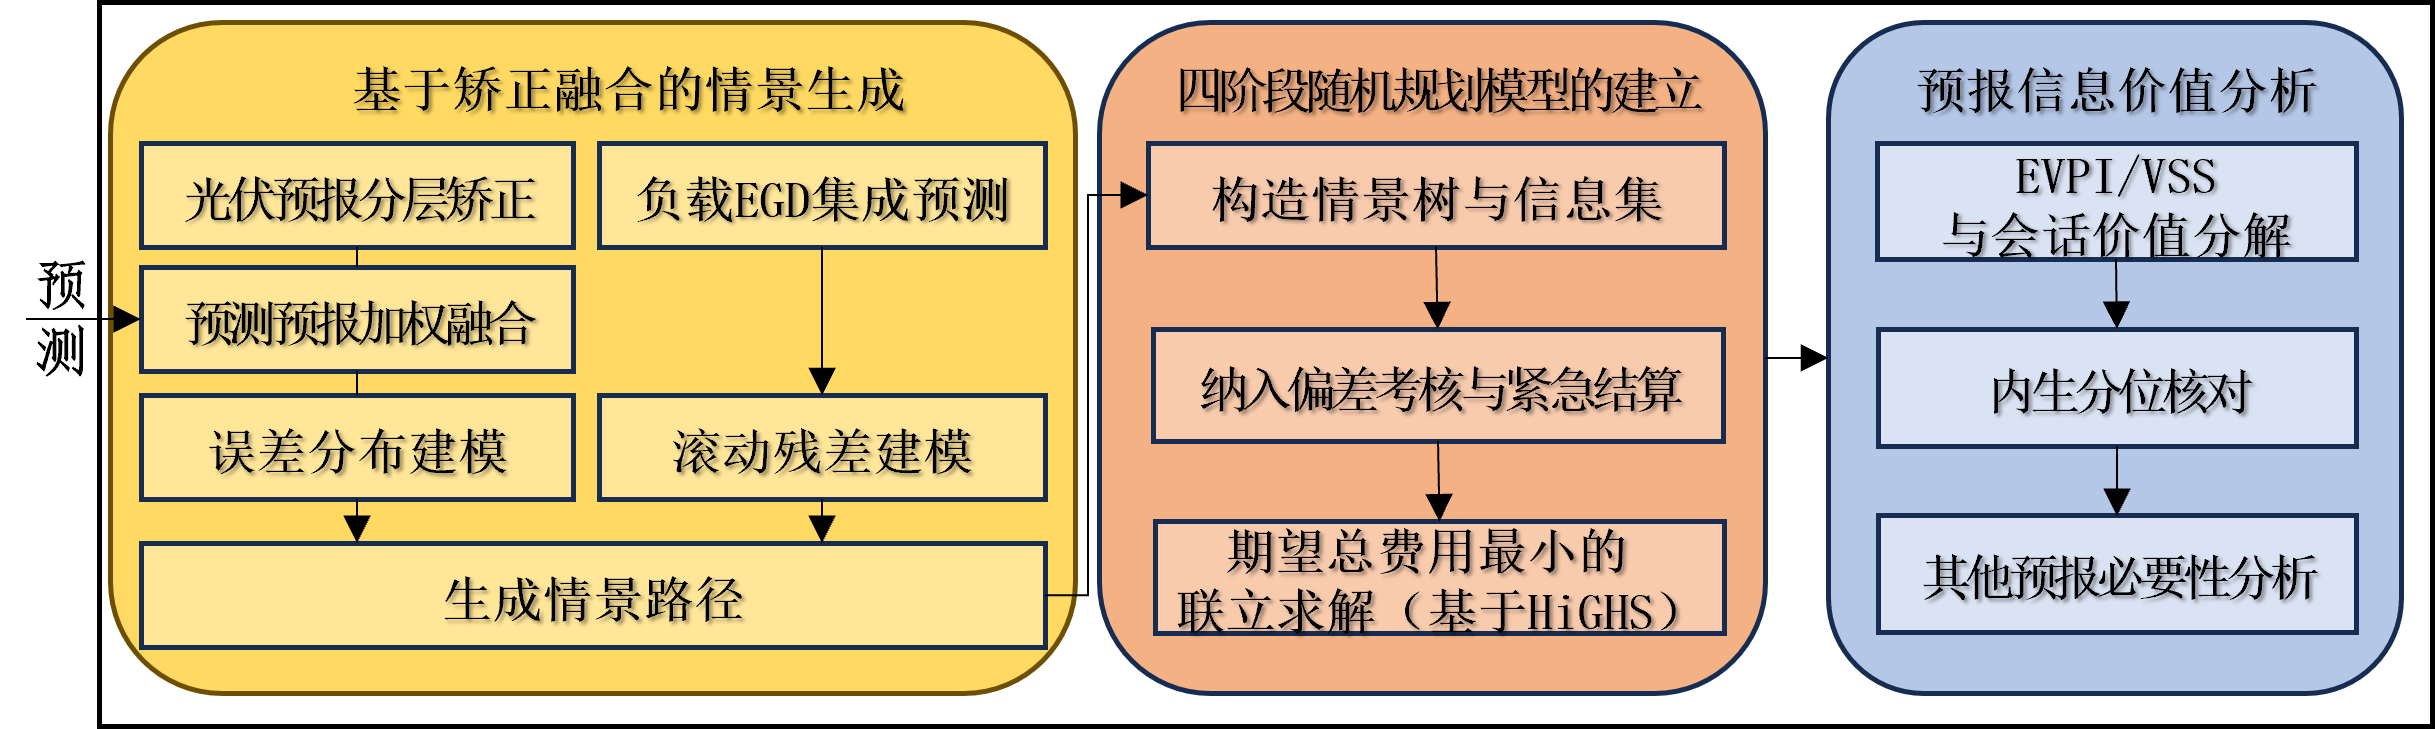
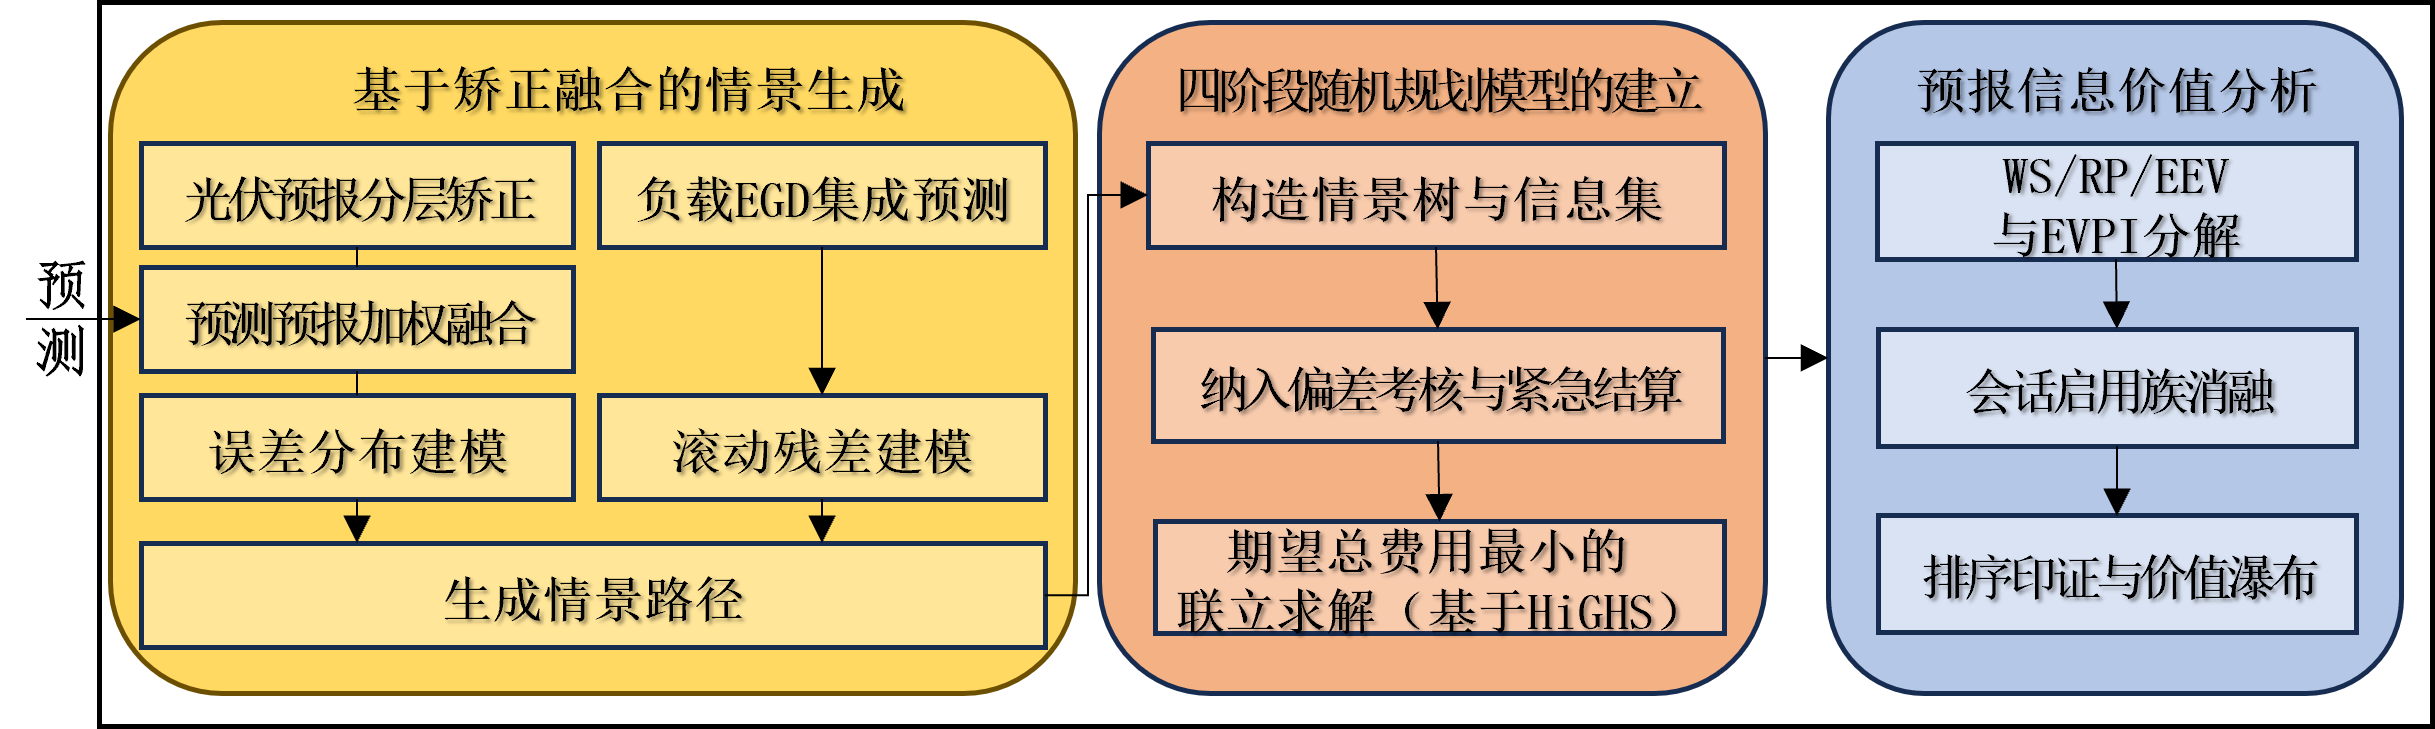
paper p3 信息价值分析与表格说明修改-0913

Changed region(s): [[0.7803, 0.2112, 0.9676, 0.3621], [0.7803, 0.7545, 0.9676, 0.845], [0.8115, 0.4829, 0.9363, 0.5734]]

diff --git a/C题/outcome/Cpaper.tex b/C题/outcome/Cpaper.tex
@@ -923,7 +923,9 @@ LSTM 组 & 1633.96 & 2829.85 & 3,661,104 \\
 是成交偏离计划要付的价；紧急费从 413.39 万元压到 185.22 万元，省下 228.17 万元。
 可以看出，模型宁可让计划阶段多花一点，也尽量避免最贵的紧急购电。
 
-题面另要求按表~1、表~2、表~3 的格式列出四个指定日期的结果。计划列是 0:00 的申报量，成交列是最终的结算量，储能为实测执行的充放电量，紧急购电为实测缺口按连续时段合并。三张表依次见表~\ref{tab:p3day1} 至表~\ref{tab:p3day3}。
+题面另要求按表~1、表~2、表~3 的格式列出四个指定日期的结果。
+计划列是 0:00 的申报量，成交列是最终的结算量，储能为实测执行的充放电量，紧急购电为实测缺口按连续时段合并。
+三张表依次见表~\ref{tab:p3day1} 至表~\ref{tab:p3day3}。注，在本结果求解时取 2025.2.1–12.31 的 334 天作为时间窗口。
 
 \begin{table}[htbp]
 \centering
@@ -1002,32 +1004,88 @@ LSTM 组 & 1633.96 & 2829.85 & 3,661,104 \\
 \label{tab:p3day3}
 \end{table}
 
-\subsection{信息价值与风险画像}
+\subsection{信息价值分析}
 \label{sub:p3value}
 
-求解给出的是一条策略，策略之外还有两个问题需要回答，预报质量本身值多少费用，以及每一次预报各值多少。前一个问题由图~\ref{fig:p3wf} 的价值瀑布回答，它把费用沿预报质量分级。在 3.1 至 12.31 的 306 天窗口上，同一条四阶段模型若改用未经矫正的原始附件~3 预报，费用为 1451.0 万元；换上去偏与融合得到的中心后降到 1344.2 万元，预报层的贡献约 106.9 万元；再往下是逐日按实测光伏与负载确定性最优的完美信息下界 1084.1 万元，与前一级相差 260.0 万元，即残余不确定性全部消除所能省下的费用。图中虚线是问题~2 日前计划的 1638.75 万元，那是 334 天口径，在此只作参照。在 334 天的落地口径上，这三级依次为 1589.88、1468.63 与 1193.39 万元，预报层的贡献为 121.25 万元。
+为评估是否需要引入其他时刻的预报，需要定量计算这三次预报的价值。
+该指标可分成两个随机规划利用调整会话数与信息预见范围等参数可算的量，一是每一次预报后的调整在实际执行中赚回了的费用，
+二是若这次预报完全准确能值多少。
 
+\textbf{价值度量的基准}\ \ 随机规划原生的几个指标可作为量化价值的基准，等待观望解WS，追索问题RP，解的期望结果EEV。
+WS 假设每条情景的真值提前揭晓，是任何策略都无法逾越的费用下界；EEV 无视不确定性，按初始计划并冻结执行。
+构造差值EVPI=RP−WS描述不考虑不确定性带来的收益上界，
+VSS=EEV−RP描述充分考虑不确定性比朴素决策实际节省成本。根据这两个差值，可界定RP 范围。
+
+本场景下，令 RP 为四阶段随机规划的最优期望费用，WS 为每个情景预先知道真值时的最优费用，
+EEV 为由 0:00 中心预报拍一份确定性计划、此后冻结执行的费用。
+在 306 天窗口上按样本内的时间跨度，可得RP 为 1167.53 万元，WS 为 1084.12 万元，EEV 为 1345.35 万元。
+故，完美信息价值 $\mathrm{EVPI}=83.42$ 万元，随机优的价值 $\mathrm{VSS}=177.82$ 万元。
+VSS较大进一步说明本随机规划的有效性。
+
+\textbf{EVPI完美价值分解}\ \ 将 EVPI 按会话拆开，可得每一次预报的信息价值上限。
+我们在主模型上逐次放开完美预见，得到一族后缀解 $W_0=RP$、$W_4=WS$，第 $s$ 次预报的价值即 $W_{s-1}-W_s$，
+四段之和恰好等于 EVPI。306天窗口中，EVPI结果为 6:00 预报 15.72 万元、12:00 预报 18.65 万元、18:00 预报 9.63 万元、
+0:00 计划本身 39.42 万元。0:00 最大十分合理，因为其在全部不确定性下需要决策最长的时间。
+从EVPI按会话分解来看，三次日内预报里以 12:00 价值最高。
+
+
+\textbf{真实预报的实际增量}\ \ 上界描述的是预报完美时的价值，
+但实际无法达到，实际预报价值由启用族给出。
+
+将日内调整的次数依次增加，同一条模型族的成本严格递减，见表~\ref{tab:p3sess}。
+相邻两次的增量即为该次预报的边际价值，从表中可见三次全为正即均有价值。特别的，我们海岸18:00 一次的实际增量 11.71 万元，
+略高于它的完美信息价值 9.63 万元，正说明它的价值里有相当一部分来自多一次调整机会本身，而不只是预报更准。
+
+这一指标直接说明了\textbf{引入 6:00、12:00、18:00 的预报均值得，且以12:00预报价值最高}。进一步分析结果，
+两种度量都把 12:00 排在日内第一，其原因 可能是12:00 的预报修正的是午后到晚上，这段含晚峰的高电价，
+而发布时间不算很近、提前量短而精度高，
+一次修正能同时改购电量与充放电安排。6:00 的预报看得更远、上界更高，但它离晚峰尚远，之后的会话还会把它覆盖掉，
+实际兑现的比例因此偏低。18:00 只剩晚间数小时，光伏趋零，故实际增量最低。
+
+\begin{table}[htbp]
+\centering
+\caption{各会话预报的完美信息价值与实际增量}
+{\small
+\begin{tabular}{lcc}
+\toprule
+会话 & 完美信息价值 & 实际增量 \\
+\midrule
+0:00 计划 & 39.42 & --- \\
+6:00 & 15.72 & 6.72 \\
+12:00 & 18.65 & 12.63 \\
+18:00 & 9.63 & 11.71 \\
+\midrule
+合计 & 83.42 & 31.06 \\
+\bottomrule
+\end{tabular}}
+\label{tab:p3sess}
+\end{table}
+
+\textbf{价值瀑布图分析}\ \ 下图的价值瀑布将整个问题三的信息统合，清晰的表现各方案的实际求解结果，这也可以说明模型改进的有效性。
+以问题~2 的日前计划为基线，换用原始附件~3 预报的四阶段模型费用为 1451.00 万元，换上去偏与融合的中心降到 1344.15 万元，
+均高于完美信息下界 1084.12 万元。这可以体现出，从原始预报到矫正融合中心即预报质量的价值，
+以及从矫正融合中心到完美信息即残余不确定性的价值。
+
+与问题二的日前预测LP方案的结果对比，可以明显看到
+采用日内调整机制与预报来源的随机规划本身的价值；而本模型中呈现的预报矫正、数据源融合通过提供误差分布更稳定的输入，进一步的扩大了方法优势。
 \begin{figure}[htbp]
 \centering
 \includegraphics[width=0.82\textwidth]{p3_waterfall.png}
-\caption{问题~3 的价值瀑布，306 天实测路径结算}
+\caption{问题~3 价值瀑布图}
 \label{fig:p3wf}
 \end{figure}
 
-后一个问题由图~\ref{fig:p3ses} 的左右两栏回答，两栏是同一件事的两种问法。左栏问的是若预报完美能值多少，它把 83.4 万元的价值总和按会话严格拆开，这个总和就是全部不确定性的完美信息价值。其中 0:00 计划独自占 39.4 万元，它要在全部不确定性下把全天定死，三次日内预报里以 12:00 最大，值 18.6 万元，6:00 为 15.7 万元，18:00 最小，为 9.6 万元。这直接回答了题面的追问，引入 6:00、12:00、18:00 的预报是必要的，三次各有 $9.6\sim18.6$ 万元的价值，若只能再补一次预报，应当补 12:00。右栏问的是实际赚了多少，把日内调整的次数从 0 次依次加到 3 次，同一条模型族的费用由 1198.6 万元降到 1167.5 万元，三次会话更新逐次都在赚钱，合计 31.1 万元，相邻两次的落差即该次预报的边际价值，6:00 为 6.7 万元，12:00 为 12.6 万元，18:00 为 11.7 万元，三者非单调，仍以 12:00 最大。左栏给出预报完美时可达的上界，右栏给出真实预报实际兑现的数额，两者相互印证。
+\textbf{稳健性检查}\ \ 上述结论还通过了时段与分支两个方向的检验。
+时段上，本文将306天前后均匀切分为两个窗口分别重算，两半区的EVPI与VSS几乎相同，
+会话价值的排序也保持一致，说明信息价值的各项结论几乎不依赖所取时段，并非特定季节或月份影响下的偶然结果；
+分支上，我们也将情景树重新设计到 $5\times5\times5$ 树并进行对比，样本内费用虽进一步下降，
+实测路径结算却反而劣化，其根源可能在于有限的供体路径无法支撑更细的叶节点，导致节点决策过拟合单条历史路径，
+故主模型仍保持 $3\times3\times3$，
 
-\begin{figure}[htbp]
-\centering
-\includegraphics[width=0.9\textwidth]{p3_session.png}
-\caption{各会话预报的信息价值与启用 $k$ 次调整的费用，306 天。左为完美预报的信息价值上限，右为启用 $k$ 次调整的费用与边际价值}
-\label{fig:p3ses}
-\end{figure}
-
-把这条策略放进标准的随机规划口径，可以进一步分出完美信息价值与随机优化的价值。记 RP 为四阶段随机规划的最优期望费用，WS 为每个情景预先知道真值时的最优费用，EEV 为由 0:00 中心预报拍一份确定性计划后冻结执行的费用，则 $\mathrm{EVPI}=\mathrm{RP}-\mathrm{WS}$，$\mathrm{VSS}=\mathrm{EEV}-\mathrm{RP}$。在 306 天窗口上按样本内的标准口径，RP 为 1167.53 万元，WS 为 1084.12 万元，EEV 为 1345.35 万元，得 EVPI 为 83.42 万元，VSS 为 177.82 万元。需要说明的是，两套数字取不同的口径。RP 的目标是在它自己抽出的 28 条供体路径上取极小，天然带样本内乐观，把 RP 与 EEV 两条策略放回实测路径结算，RP 为 1344.15 万元，EEV 为 1362.21 万元，两者之差即样本外的 VSS，只有 18.06 万元。EEV 是一条固定计划，几乎不受样本内乐观影响，1345.35 与 1362.21 只差 $1.3\%$，被放大的主要是 RP 一侧，因此我们以样本外的 VSS 约 18.06 万元为准，即随机优化相对确定性计划在实际天气上每年约省 18 万元，样本内的 177.82 万元作为标准随机规划口径并列给出并注明来源。
-
-CVaR 不进目标函数，目标保持风险中性，前文的分位推导才成立，它只用于事后刻画。在 RP 最优解上取逐日逐情景的净费用分布，样本内的 P50、P90、P95 为 $4.08/5.46/6.01$ 万元$\cdot$日$^{-1}$，$95\%$ 条件风险价值 $\mathrm{CVaR}_{95}$ 为 6.47，换到逐日实测费用，对应值为 $4.62/6.20/7.41$ 与 8.70 万元$\cdot$日$^{-1}$，即最差的 $5\%$ 日子日均约 8.7 万元。尾部由 P95 到 $\mathrm{CVaR}_{95}$ 的上抬有限，没有失控。把 306 天对半切开，前半 3 至 7 月与后半 8 至 12 月的 EVPI 为 41.65 与 41.77 万元，VSS 为 89.00 与 88.81 万元，两个半年几乎相同，会话价值排序在两个半年里也都以 12:00 最高，结论不依赖所取的时段。
-
-\noindent\textbf{口径说明}\ \ 主结果与 result3.xlsx 取 2025.2.1--12.31 的全窗 334 天，价值分解与信息价值取供体池已满的 3.1--12.31 共 306 天。2 月最初几天的历史供体不足，情景退化为单条路径，随机优化的价值会被系统性压低，故不并入分解口径。
+另外，当前目标函数控制风险中性，这里对尾部风险进行分析。在最优解上统计逐日实测净费用P50、P90、P95 为 4.62、6.20、7.41 万元/日，
+而最差 $5\%$ 的日子日均约 8.7 万元，较 P95 仅上升1.3万元，
+说明最差日子内部费用彼此相近、不存在个别极端日把条件均值远超阈值的尾部，
+策略的低期望费用并不存在极端差解的代价。
 
 \section{问题4模型的建立与求解}
 % TODO：附件4 波动电价替代分时电价，重算问题2与问题3；输出 result4-2.xlsx、result4-3.xlsx。
